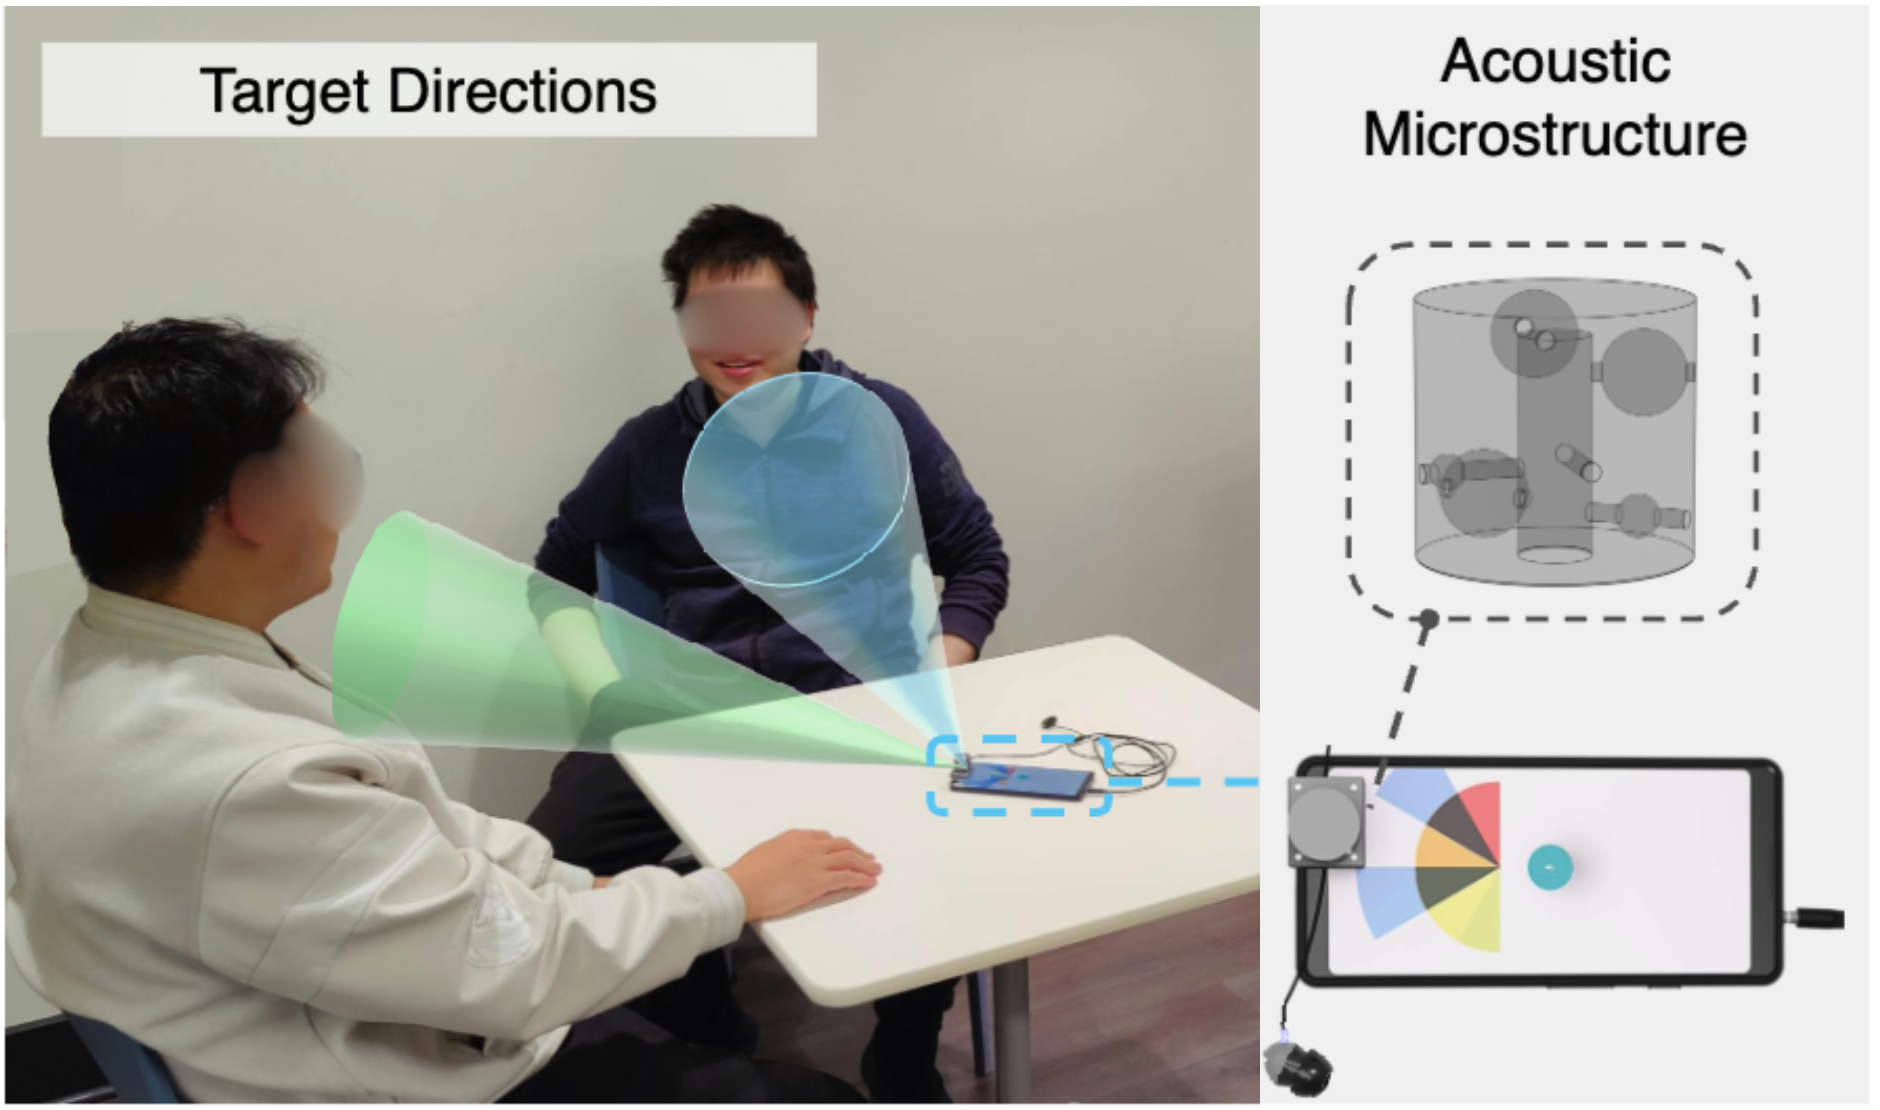
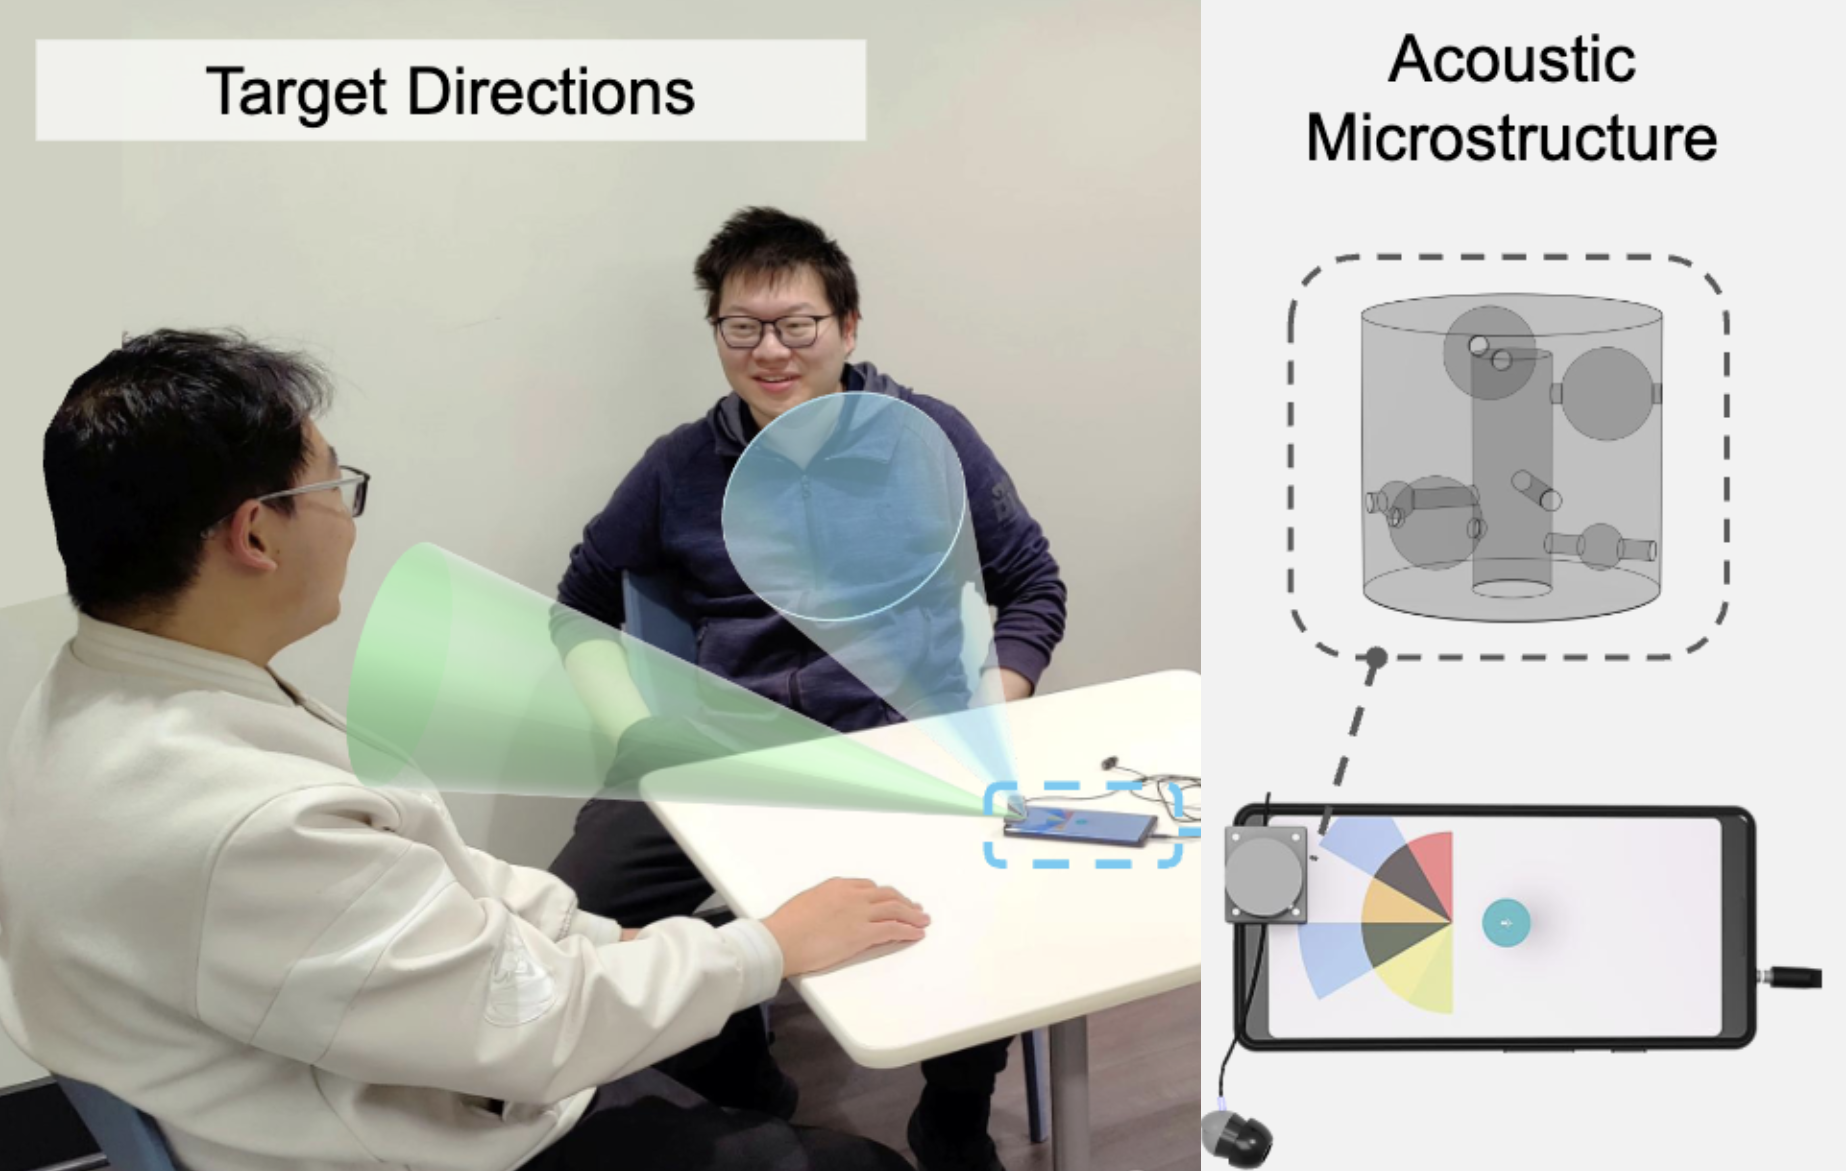
update_a

diff --git a/_pages/about.md b/_pages/about.md
@@ -65,7 +65,7 @@ Kuang Yuan\*, Yifeng Wang\*, **Xiyuxing Zhang\***(\*Co-first Author), Chengyi Sh
         <i class="fas fa-newspaper" aria-hidden="true"></i> Paper
     </a>
     &nbsp;
-    <a class="_blank" href="https://www.youtube.com/watch?v=VOfsIZ_QF0o">
+    <a class="_blank" href="https://youtu.be/ZXxkLvVxmDo">
         <i class="fas fa-video" aria-hidden="true"></i> Video
     </a>
 </div>
